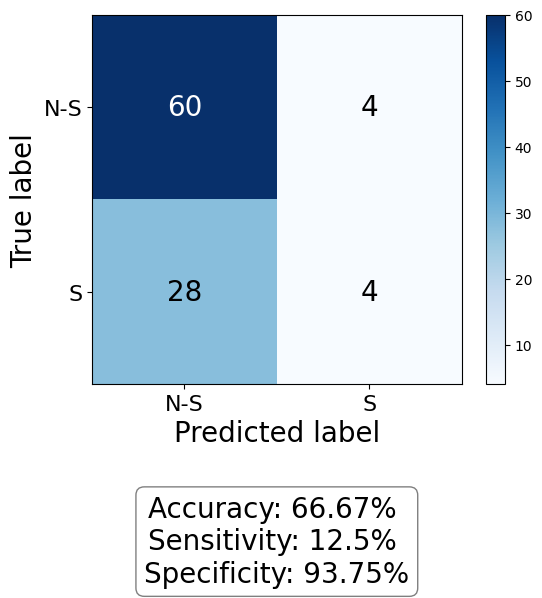
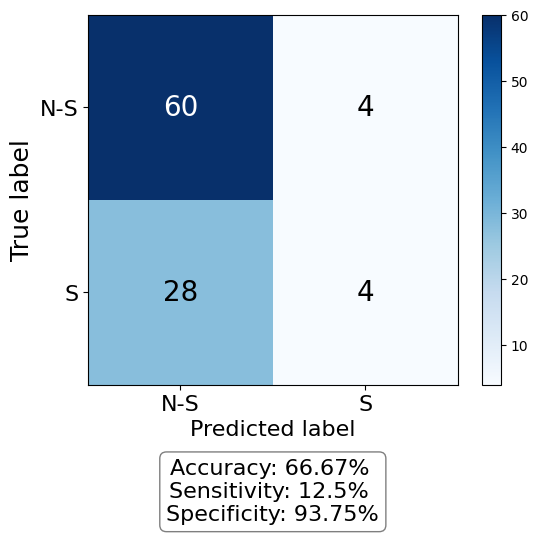
Changed figures to fit latex

diff --git a/utils/metrics.py b/utils/metrics.py
@@ -141,7 +141,8 @@ def plot_confusion_matrix(
                     va="center",
                     ha="center",
                     color="white"
-                    if conf_mat[i, j] > np.max(conf_mat) * fontcolor_threshold
+                    #if conf_mat[i, j] > np.max(conf_mat) * fontcolor_threshold
+                    if conf_mat[i, j] > 28
                     else "black",
                     fontsize=20
                 )
